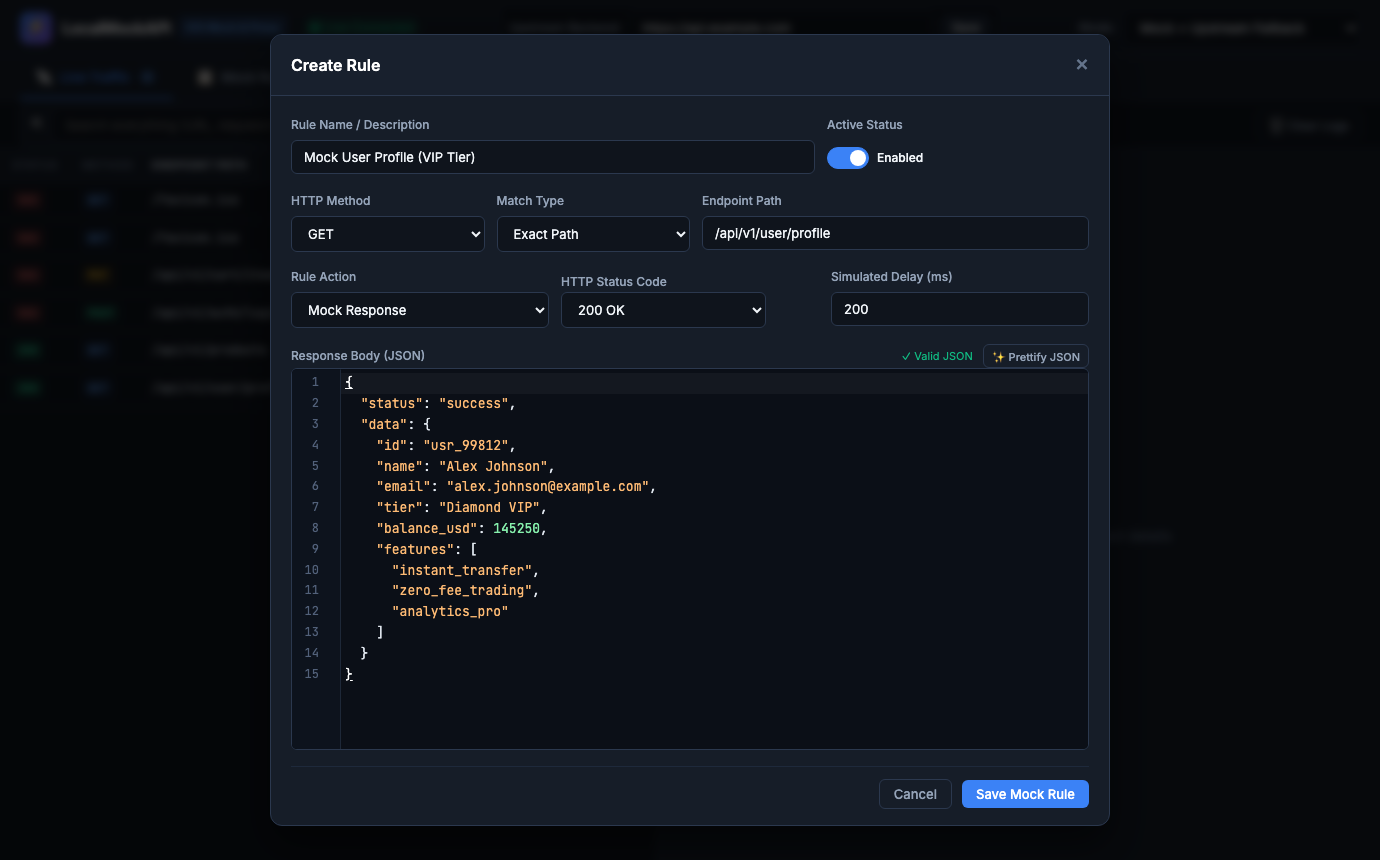
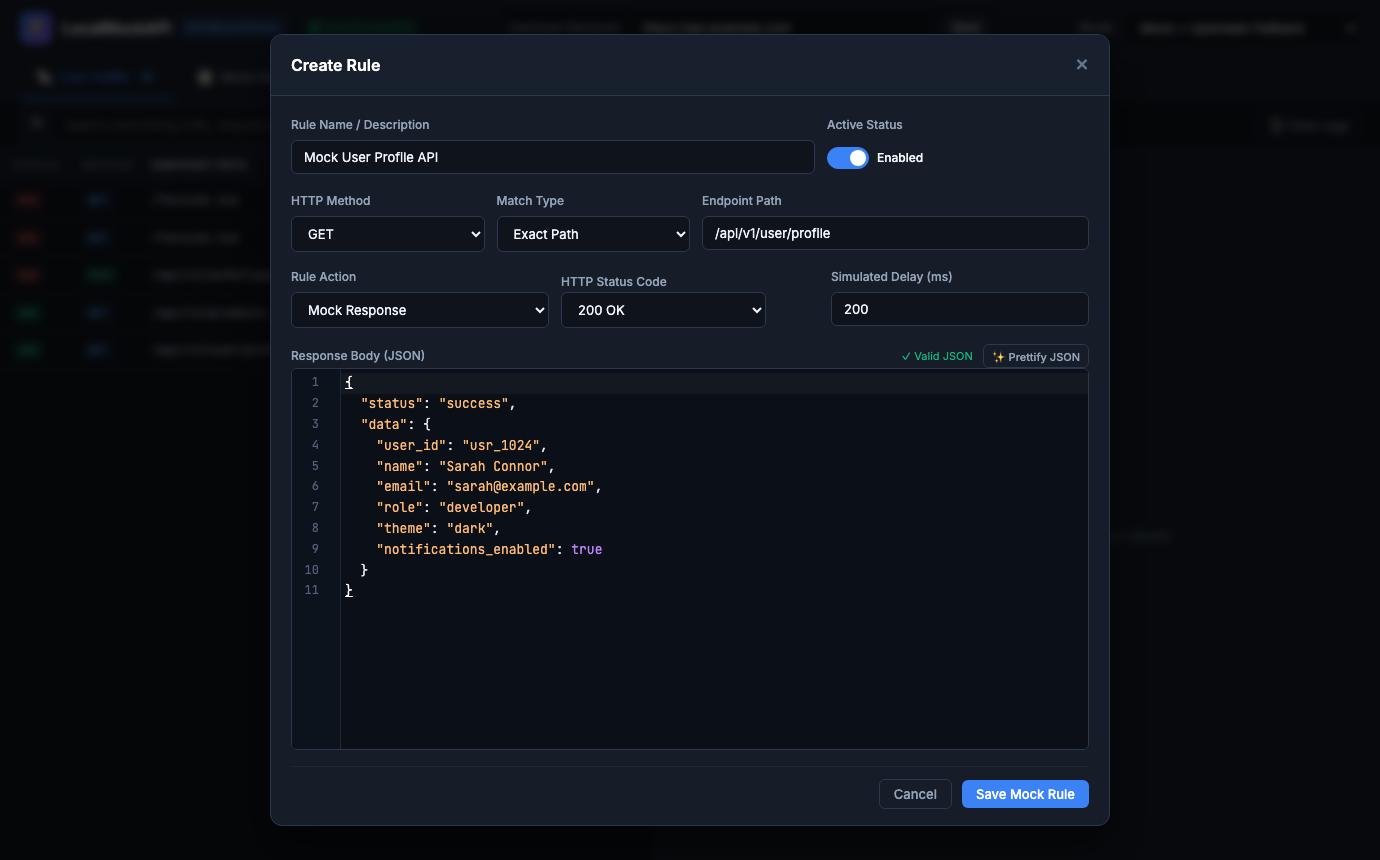
docs: Replace all examples with clean, generic software developer profile model

Changed region(s): [[0.2804, 0.514, 0.4674, 0.7256], [0.3116, 0.1814, 0.3428, 0.2116]]

diff --git a/public/app.js b/public/app.js
@@ -848,7 +848,7 @@ document.addEventListener('DOMContentLoaded', () => {
   } else if (urlParams.get('demo') === 'modal') {
     setTimeout(() => {
       openRuleModalForCreate({
-        name: 'Mock User Profile (VIP Tier)',
+        name: 'Mock User Profile API',
         method: 'GET',
         path: '/api/v1/user/profile',
         statusCode: 200,
@@ -856,12 +856,12 @@ document.addEventListener('DOMContentLoaded', () => {
         body: JSON.stringify({
           status: 'success',
           data: {
-            id: 'usr_99812',
-            name: 'Alex Johnson',
-            email: 'alex.johnson@example.com',
-            tier: 'Diamond VIP',
-            balance_usd: 145250.00,
-            features: ['instant_transfer', 'zero_fee_trading', 'analytics_pro']
+            user_id: 'usr_1024',
+            name: 'Sarah Connor',
+            email: 'sarah@example.com',
+            role: 'developer',
+            theme: 'dark',
+            notifications_enabled: true
           }
         }, null, 2)
       });

diff --git a/README.md b/README.md
@@ -100,10 +100,12 @@ Create or edit mock responses effortlessly with line numbers, syntax highlightin
    {
      "status": "success",
      "data": {
-       "id": "usr_99812",
-       "name": "Alex Johnson",
-       "tier": "Diamond VIP",
-       "balance_usd": 145250.00
+       "user_id": "usr_1024",
+       "name": "Sarah Connor",
+       "email": "sarah@example.com",
+       "role": "developer",
+       "theme": "dark",
+       "notifications_enabled": true
      }
    }
    ```
@@ -125,10 +127,12 @@ Access-Control-Allow-Origin: *
 {
   "status": "success",
   "data": {
-    "id": "usr_99812",
-    "name": "Alex Johnson",
-    "tier": "Diamond VIP",
-    "balance_usd": 145250.00
+    "user_id": "usr_1024",
+    "name": "Sarah Connor",
+    "email": "sarah@example.com",
+    "role": "developer",
+    "theme": "dark",
+    "notifications_enabled": true
   }
 }
 ```
